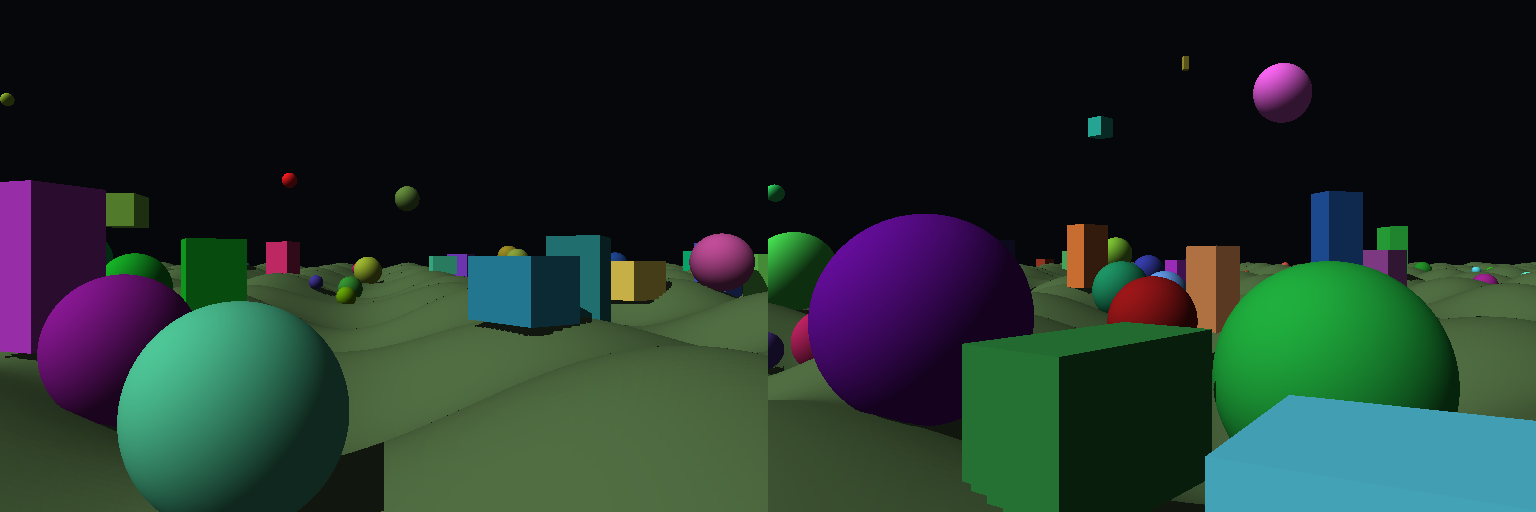
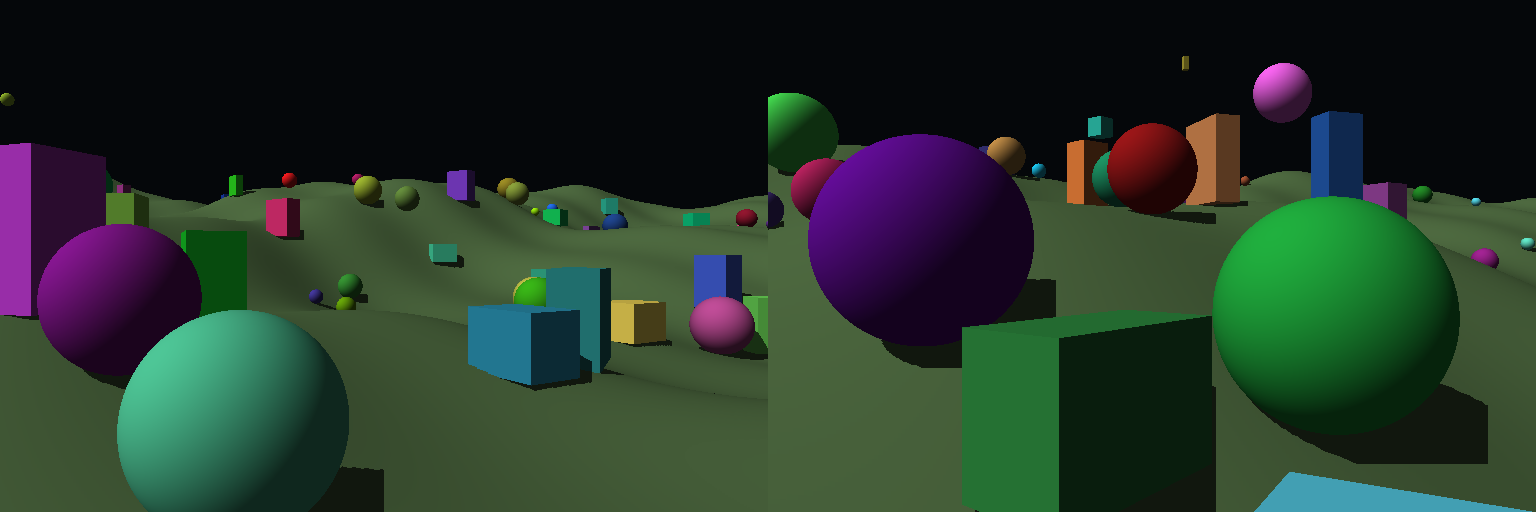
Better terrain

diff --git a/synthetic_scene/csrc/bindings.cpp b/synthetic_scene/csrc/bindings.cpp
@@ -2,6 +2,7 @@
 
 #include <ATen/CPUGeneratorImpl.h>
 #include <c10/cuda/CUDAFunctions.h>
+#include <algorithm>
 #include <cmath>
 #include <tuple>
 #include <vector>
@@ -126,8 +127,13 @@ void append_mat3(std::vector<float>& values, Mat3 matrix) {
 }
 
 float smooth_height(float x, float z, float phase_x, float phase_z) {
-  return 0.28f * std::sin(1.35f * x + phase_x) + 0.18f * std::cos(1.85f * z + phase_z) +
-      0.08f * std::sin(1.1f * (x + z) + phase_x * 0.7f);
+  const float forward_depth = std::max(-z, 0.0f);
+  const float far_rise = 0.055f * forward_depth + 0.0011f * forward_depth * forward_depth;
+  const float broad_undulation =
+      1.20f * std::sin(0.18f * x + 0.11f * z + phase_x) + 0.85f * std::cos(0.13f * x - 0.20f * z + phase_z);
+  const float foothills = 0.42f * std::sin(0.46f * x + 0.34f * z + phase_x * 0.61f + phase_z * 0.23f);
+  const float worn_detail = 0.12f * std::sin(0.95f * x - 0.58f * z + phase_z * 1.37f);
+  return far_rise + broad_undulation + foothills + worn_detail;
 }
 
 torch::Tensor make_cuda_tensor(std::vector<float>&& values, std::vector<int64_t> shape) {

diff --git a/synthetic_scene/renderer.py b/synthetic_scene/renderer.py
@@ -209,7 +209,7 @@ def random_scene(
     scatter_radius: float = 50.0,
     ground_y: float = -1.0,
     depth_limit: float = 50.0,
-    terrain_dz: float = 0.05,
+    terrain_dz: float = 0.005,
     terrain_dz_growth: float = 0.0001,
     fov_degrees: float = 50.0,
     aspect_ratio: float = 1.5,